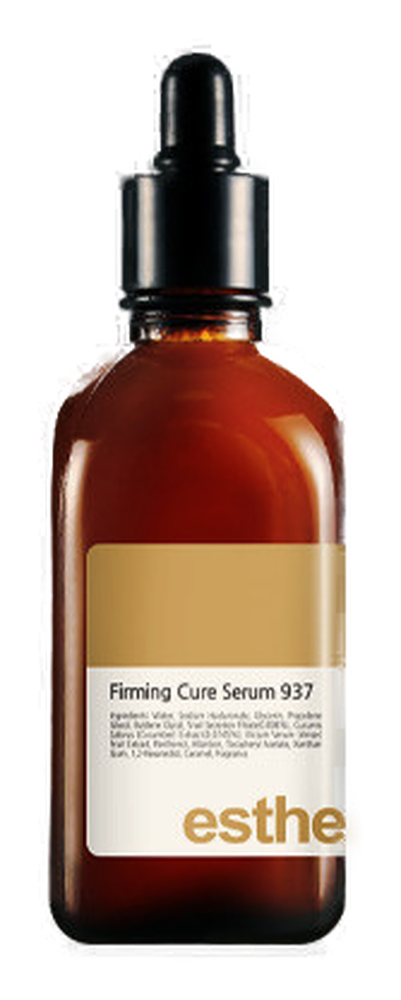
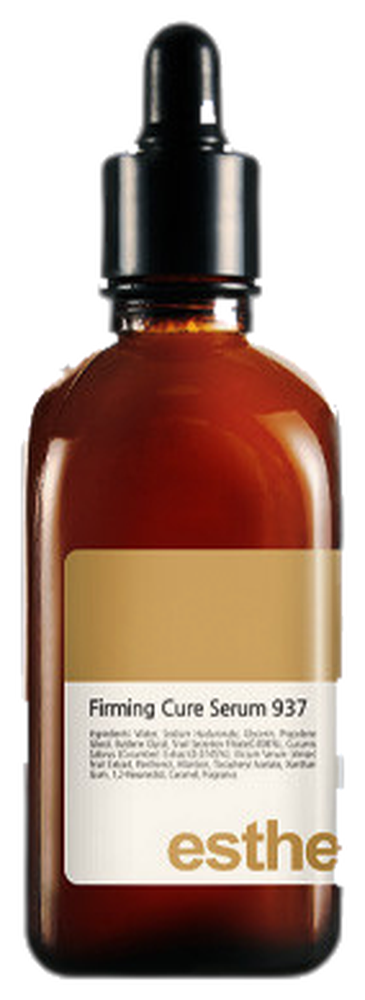
fix: clean Esthemax cutout fringe; center brand visuals on homepage

diff --git a/static/css/bundles/home.css b/static/css/bundles/home.css
@@ -988,7 +988,7 @@
   --brand-intro-h: 52px;
   --brand-ease: cubic-bezier(0.22, 1, 0.36, 1);
   /* ширший gutter: cutout-фото інакше «їде» до центру */
-  --brand-gutter: clamp(28px, 6.5vw, 80px);
+  --brand-gutter: clamp(20px, 4vw, 52px);
   position: relative;
   isolation: isolate;
   margin-top: clamp(28px, 4vw, 48px);
@@ -1139,25 +1139,17 @@
     margin-left: auto;
   }
 
-  /* cutout без фону: притискаємо візуал до зовнішнього краю колонки */
-  .brand-panel--left .brand-panel__media {
-    justify-content: flex-end;
-    padding-right: 0;
-  }
-
+  /* cutout: тримаємо візуал ближче до центру секції, не біля краю екрана */
+  .brand-panel--left .brand-panel__media,
   .brand-panel--right .brand-panel__media {
-    justify-content: flex-start;
-    padding-left: 0;
+    justify-content: center;
+    padding-inline: clamp(12px, 3vw, 40px);
   }
 
-  .brand-panel--left .brand-panel__visual {
-    object-position: right center;
-    transform-origin: right center;
-  }
-
+  .brand-panel--left .brand-panel__visual,
   .brand-panel--right .brand-panel__visual {
-    object-position: left center;
-    transform-origin: left center;
+    object-position: center center;
+    transform-origin: center center;
   }
 }
 

diff --git a/static/css/components/brand_showcase.css b/static/css/components/brand_showcase.css
@@ -6,7 +6,7 @@
   --brand-intro-h: 52px;
   --brand-ease: cubic-bezier(0.22, 1, 0.36, 1);
   /* ширший gutter: cutout-фото інакше «їде» до центру */
-  --brand-gutter: clamp(28px, 6.5vw, 80px);
+  --brand-gutter: clamp(20px, 4vw, 52px);
   position: relative;
   isolation: isolate;
   margin-top: clamp(28px, 4vw, 48px);
@@ -157,25 +157,17 @@
     margin-left: auto;
   }
 
-  /* cutout без фону: притискаємо візуал до зовнішнього краю колонки */
-  .brand-panel--left .brand-panel__media {
-    justify-content: flex-end;
-    padding-right: 0;
-  }
-
+  /* cutout: тримаємо візуал ближче до центру секції, не біля краю екрана */
+  .brand-panel--left .brand-panel__media,
   .brand-panel--right .brand-panel__media {
-    justify-content: flex-start;
-    padding-left: 0;
+    justify-content: center;
+    padding-inline: clamp(12px, 3vw, 40px);
   }
 
-  .brand-panel--left .brand-panel__visual {
-    object-position: right center;
-    transform-origin: right center;
-  }
-
+  .brand-panel--left .brand-panel__visual,
   .brand-panel--right .brand-panel__visual {
-    object-position: left center;
-    transform-origin: left center;
+    object-position: center center;
+    transform-origin: center center;
   }
 }
 

diff --git a/apps/core/management/commands/seed_catalog.py b/apps/core/management/commands/seed_catalog.py
@@ -351,17 +351,15 @@ class Command(BaseCommand):
                 )
             else:
                 featured_brand.save()
-            # Дефолт вітрини з media/seed — якщо порожньо або файл зник (не чіпаємо ручний аплоад).
+            # Дефолтні cutout-и вітрини з media/seed (оновлюються при seed).
+            # На бойовому сервері після go-live не ганяти seed_demo — змінюйте через адмінку.
             showcase_path = SEED_DIR / item["showcase"]
-            needs_default = (not featured_brand.showcase_image) or (
-                not featured_brand.has_showcase_image
-            )
-            if needs_default and showcase_path.is_file():
+            if showcase_path.is_file():
                 self._attach_image(featured_brand.showcase_image, showcase_path)
                 featured_brand.save(update_fields=["showcase_image", "updated_at"])
                 self.stdout.write(
                     self.style.SUCCESS(
-                        f"Brand showcase default: {item['slug']} ← {item['showcase']}"
+                        f"Brand showcase: {item['slug']} ← {item['showcase']}"
                     )
                 )
             self.stdout.write(self.style.SUCCESS(f"Brand ready: {item['slug']}"))
